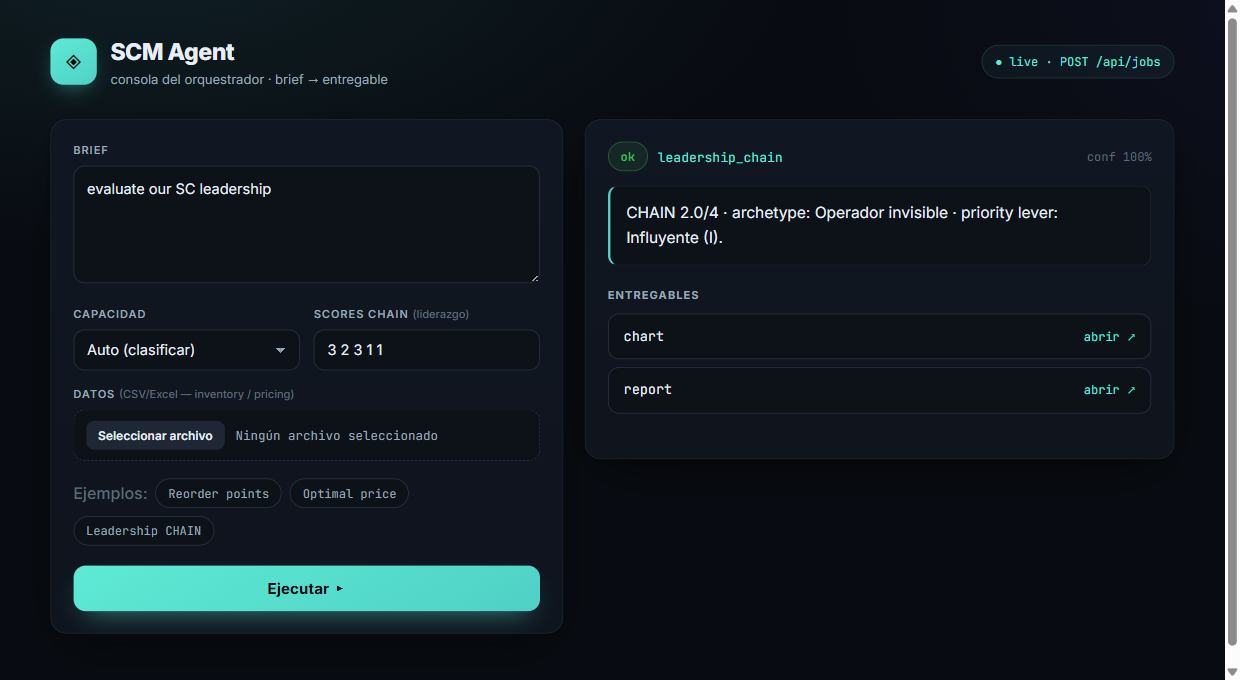
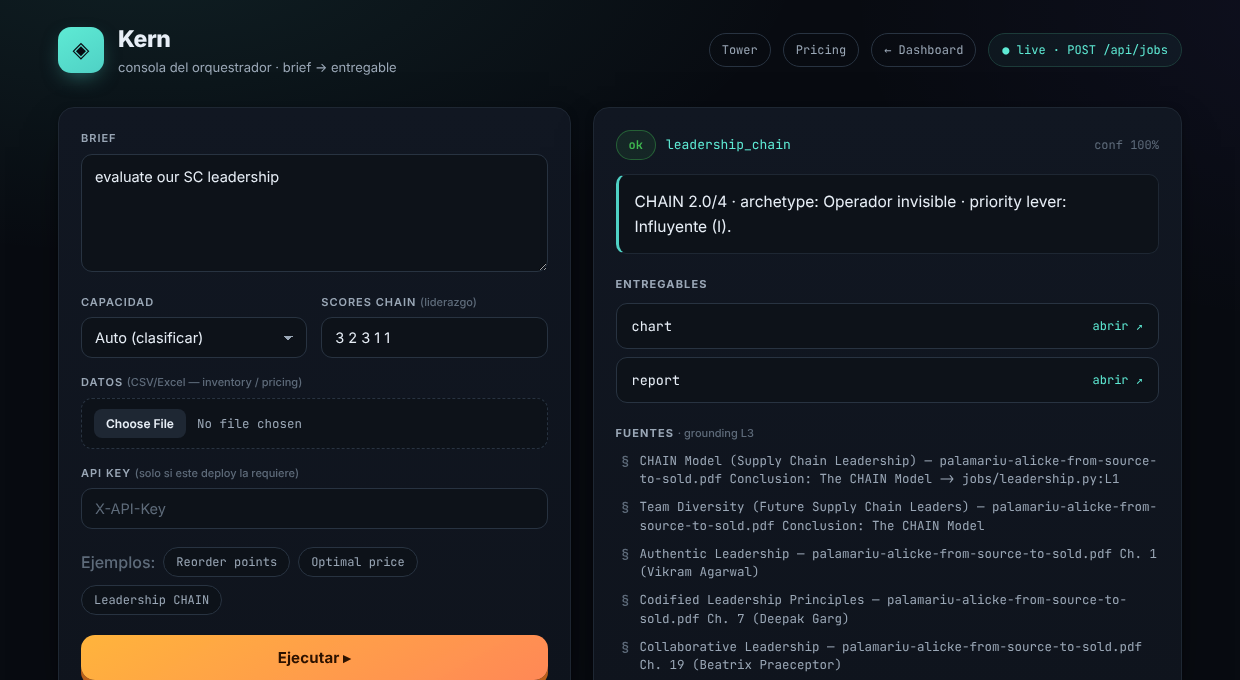
docs(readme): refresh counts, regenerate capability donut and console screenshot (#384)
* docs(readme): refresh counts and regenerate capability donut + console screenshot

README: test count 6493+ -> 9,100+ (pytest collects 9161), diagram '45 more tools' -> 57 (60 total), drop stale 'pending regeneration' note.
capabilities-by-area.png was still the 40-tool version; now 60, generated by scripts/gen_capabilities_donut.py which fails if the README table and the registry disagree.
scm-agent-console.png recaptured from the live app.

Claude-Session: https://claude.ai/code/session_01HzzWRRU452Am5bEUE2aCei

* docs(readme): add header line

Claude-Session: https://claude.ai/code/session_01HzzWRRU452Am5bEUE2aCei

---------

diff --git a/scripts/gen_capabilities_donut.py b/scripts/gen_capabilities_donut.py
@@ -1,0 +1,58 @@
+"""Regenerate docs/assets/capabilities-by-area.png from the README's tool table.
+
+The README's "full list, by area" table is the source of the per-area counts; the
+registry (`build_default_registry()`) is the source of truth for which tools exist.
+The script fails if the two disagree, so the image can never drift silently again.
+"""
+from __future__ import annotations
+
+import re
+from pathlib import Path
+
+import matplotlib
+
+matplotlib.use("Agg")
+import matplotlib.pyplot as plt
+
+from scm_agent.tools import build_default_registry
+
+ROOT = Path(__file__).resolve().parent.parent
+COLORS = ["#2f6f68", "#3fb950", "#5eead4", "#d4a017", "#6b8cba", "#a67bb8",
+          "#c0644c", "#7f8596", "#4a6fa5", "#8a6d3b", "#b0b0b0"]
+
+
+def areas_from_readme() -> dict[str, list[str]]:
+    text = (ROOT / "README.md").read_text(encoding="utf-8")
+    block = text.split("The full list, by area")[1].split("</details>")[0]
+    out: dict[str, list[str]] = {}
+    for line in block.splitlines():
+        m = re.match(r"\| \*\*(.+?)\*\* \| (.+) \|$", line)
+        if m:
+            # tool names are the backticked tokens that start a cell item ("`x` (...)" or "`x` ·")
+            names = [n for n in re.findall(r"(?:^|· )`([a-z_]+)`", m.group(2))]
+            out[m.group(1)] = names
+    return out
+
+
+def main() -> None:
+    areas = areas_from_readme()
+    listed = {n for v in areas.values() for n in v}
+    registered = {t.key for t in build_default_registry().list()}
+    if listed != registered:
+        raise SystemExit(f"README table != registry: only in README {sorted(listed - registered)}, "
+                         f"only in registry {sorted(registered - listed)}")
+    items = sorted(((k, len(v)) for k, v in areas.items()), key=lambda kv: -kv[1])
+    total = sum(n for _, n in items)
+    fig, ax = plt.subplots(figsize=(9.5, 6.5))
+    ax.pie([n for _, n in items], colors=COLORS[: len(items)], startangle=90, counterclock=False,
+           wedgeprops={"width": 0.4, "edgecolor": "white", "linewidth": 2})
+    ax.text(0, 0.06, str(total), ha="center", va="center", fontsize=34, fontweight="bold", color="#1f2d3a")
+    ax.text(0, -0.2, "tools", ha="center", va="center", fontsize=16, fontweight="bold", color="#1f2d3a")
+    ax.legend([f"{k} ({n})" for k, n in items], loc="center left", bbox_to_anchor=(1.0, 0.5), frameon=False, fontsize=12)
+    ax.set_title(f"What Kern covers — {total} registered capabilities by domain", loc="left", fontsize=15)
+    fig.savefig(ROOT / "docs/assets/capabilities-by-area.png", dpi=110, bbox_inches="tight", facecolor="white")
+    print(total, items)
+
+
+if __name__ == "__main__":
+    main()

diff --git a/README.md b/README.md
@@ -1,3 +1,5 @@
+----stipi estuvo aqui----
+
 <div align="center">
 
 # 🔗 Kern
@@ -31,7 +33,7 @@ flowchart LR
   C --> I["inventory_optimization"]
   C --> P["pricing"]
   C --> L["leadership_chain"]
-  C --> M["...45 more tools"]
+  C --> M["...57 more tools"]
   I --> Q{"QA gate"}
   P --> Q
   L --> Q
@@ -50,7 +52,7 @@ Every one of the **60 registered tools** below is routed the same way — one `r
 | 🧭 `leadership_chain` | a brief / scores | radar chart + report — CHAIN leadership profile + directives |
 | 🏗 `warehouse_layout` | params / brief | 3D HTML + layout.json + report — navigable warehouse (building, yard, docks, gates, racks) |
 
-Runs **with or without an LLM**: an optional `LLMProvider` (Claude) sharpens routing and the narrative; the deterministic core works on its own. The whole thing is **6493+ tests**.
+Runs **with or without an LLM**: an optional `LLMProvider` (Claude) sharpens routing and the narrative; the deterministic core works on its own. The whole thing is **9,100+ tests**.
 
 ---
 
@@ -59,7 +61,7 @@ Runs **with or without an LLM**: an optional `LLMProvider` (Claude) sharpens rou
 Every capability below is agent-routable — a brief in, a QA-gated deliverable out — through the exact same pipeline as the four examples above. Source of truth: `build_default_registry()` in [`scm_agent/tools.py`](scm_agent/tools.py); this table is regenerated by hand from it, so if the two ever disagree, trust the code. See the [Capability Expansion Plan](documentation/CAPABILITY_EXPANSION_PLAN.md) for what's still credential-gated (Shopify/Amazon/ERP connectors, voice) rather than agent-routable today.
 
 <div align="center">
-<img src="docs/assets/capabilities-by-area.png" alt="Donut chart — the 60 registered tools grouped by domain area: inventory & replenishment 13, network & logistics 9, inventory control & health 9, pricing & finance 7, procurement & sourcing 5, returns/risk/benchmarking 4, demand & classification 3, planning cadence 4, procedures & standard work 2, ISO operations & evidence 3, leadership 1 (chart image itself pending regeneration; text kept accurate to the current registry)" width="620">
+<img src="docs/assets/capabilities-by-area.png" alt="Donut chart — the 60 registered tools grouped by domain area: inventory & replenishment 13, network & logistics 9, inventory control & health 9, pricing & finance 7, procurement & sourcing 5, returns/risk/benchmarking 4, demand & classification 3, planning cadence 4, procedures & standard work 2, ISO operations & evidence 3, leadership 1" width="620">
 </div>
 
 <details>
@@ -222,13 +224,13 @@ The analytical core the agent stands on: a chain of small **pure functions**, ea
 ![forecast error](https://img.shields.io/badge/safety_stock-forecast_error_σ-5eead4?style=flat-square&labelColor=0d1219)
 ![shape aware](https://img.shields.io/badge/demand-Croston_and_gamma-3fb950?style=flat-square&labelColor=0d1219)
 ![feasible](https://img.shields.io/badge/plan-MOQ_and_budget_feasible-d4a017?style=flat-square&labelColor=0d1219)
-![tests](https://img.shields.io/badge/6493%2B_tests-passing-4fd1c5?style=flat-square&labelColor=0d1219)
+![tests](https://img.shields.io/badge/9100%2B_tests-passing-4fd1c5?style=flat-square&labelColor=0d1219)
 
 - **Validated, not assumed** — closed-form policies are cross-checked against Monte-Carlo simulation (`simulation.py`, backorders + lost sales).
 - **σ_e, not σ_demand** — safety stock keys off *forecast error*, the only correct dispersion (the #1 inventory mistake in the wild).
 - **Shape-aware** — intermittent (Croston) and skewed (gamma) demand are first-class, where a normal-curve sheet silently stocks out.
 - **Feasible by construction** — MOQ / budget are constraints, so what ships is buildable, not just mathematically optimal.
-- **Pure & composable** — each module is a pure function, the engine validated against reference numeric examples in a 6493+ test suite; the orchestrator chains them without surprises.
+- **Pure & composable** — each module is a pure function, the engine validated against reference numeric examples in a 9,100+ test suite; the orchestrator chains them without surprises.
 
 <div align="center">
 <img src="docs/assets/benchmark-savings.png" alt="Bar chart — median cost reduction vs baseline on Online Retail I, Online Retail II, and Superstore, all above the 15% target line" width="520"><br>
@@ -342,7 +344,7 @@ jobs/                 Playbooks (one per tool) + intake/QA/deliverables
 src/                  Core engine (EOQ → simulation optimization → forecasting → pricing → ...)
 webapp/               FastAPI dashboard + POST /api/jobs + live agent console (static/prototype/)
 examples/             CLI workflows (run_agent, parts 1-4, batch, jobs, plots)
-tests/                6493+ tests: engine (reference numeric examples) + agent + HTTP layer (traversal/upload guards)
+tests/                9,100+ tests: engine (reference numeric examples) + agent + HTTP layer (traversal/upload guards)
 data/                 Sample demand + pricing
 documentation/        Guides: Getting Started, FAQ, methodology, capability-expansion plan
 docs/                 Design briefs, handoff notes, assets
